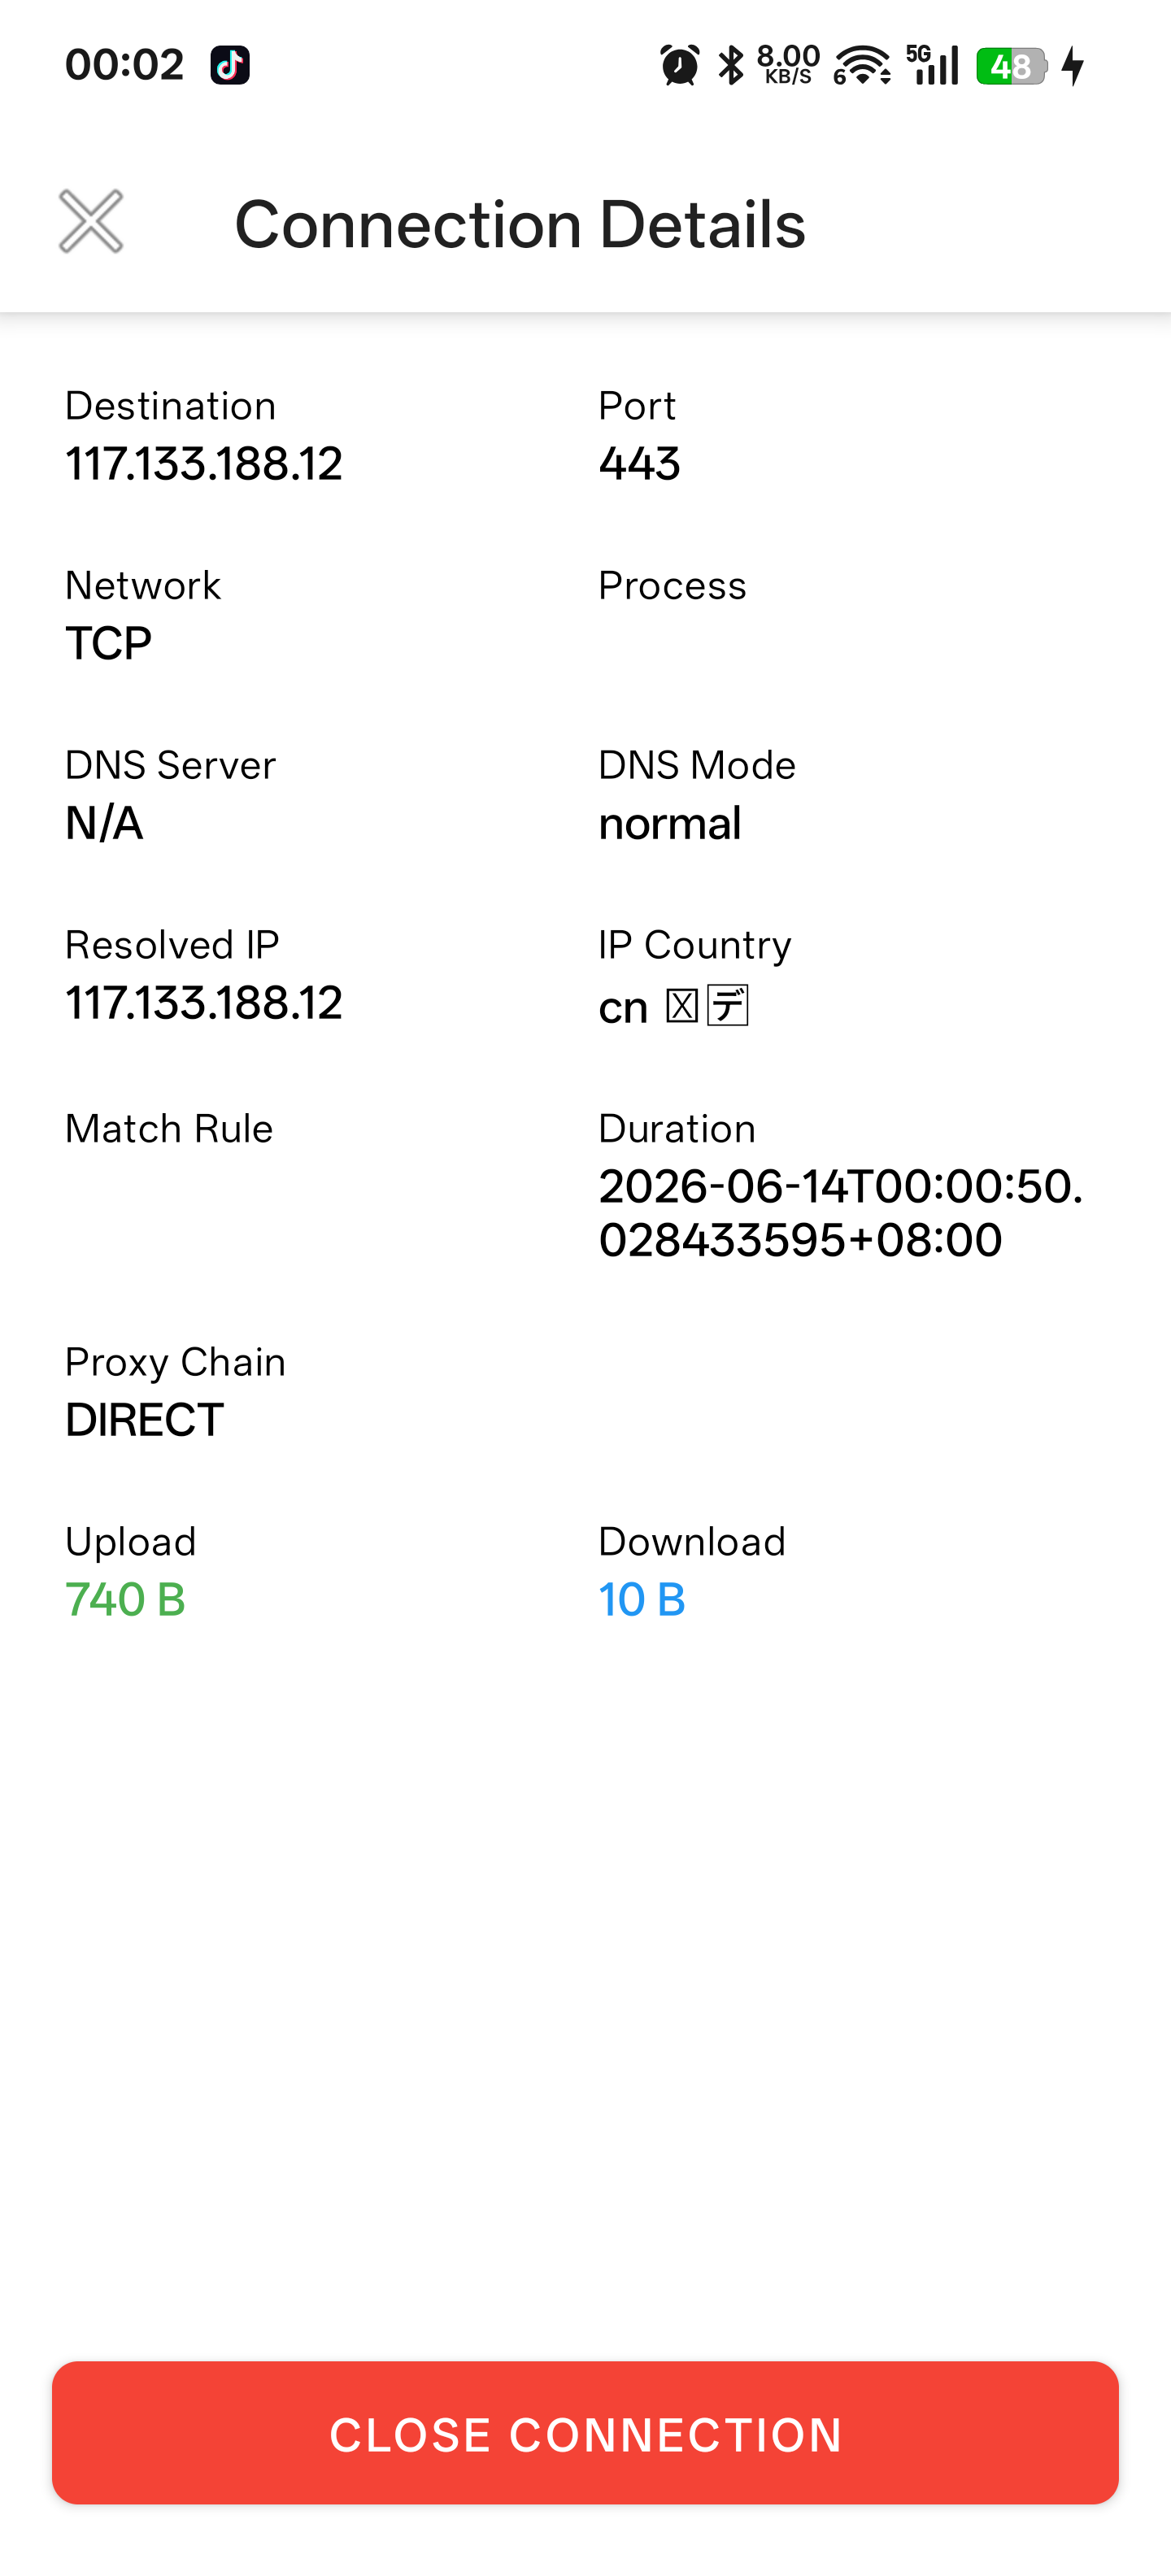
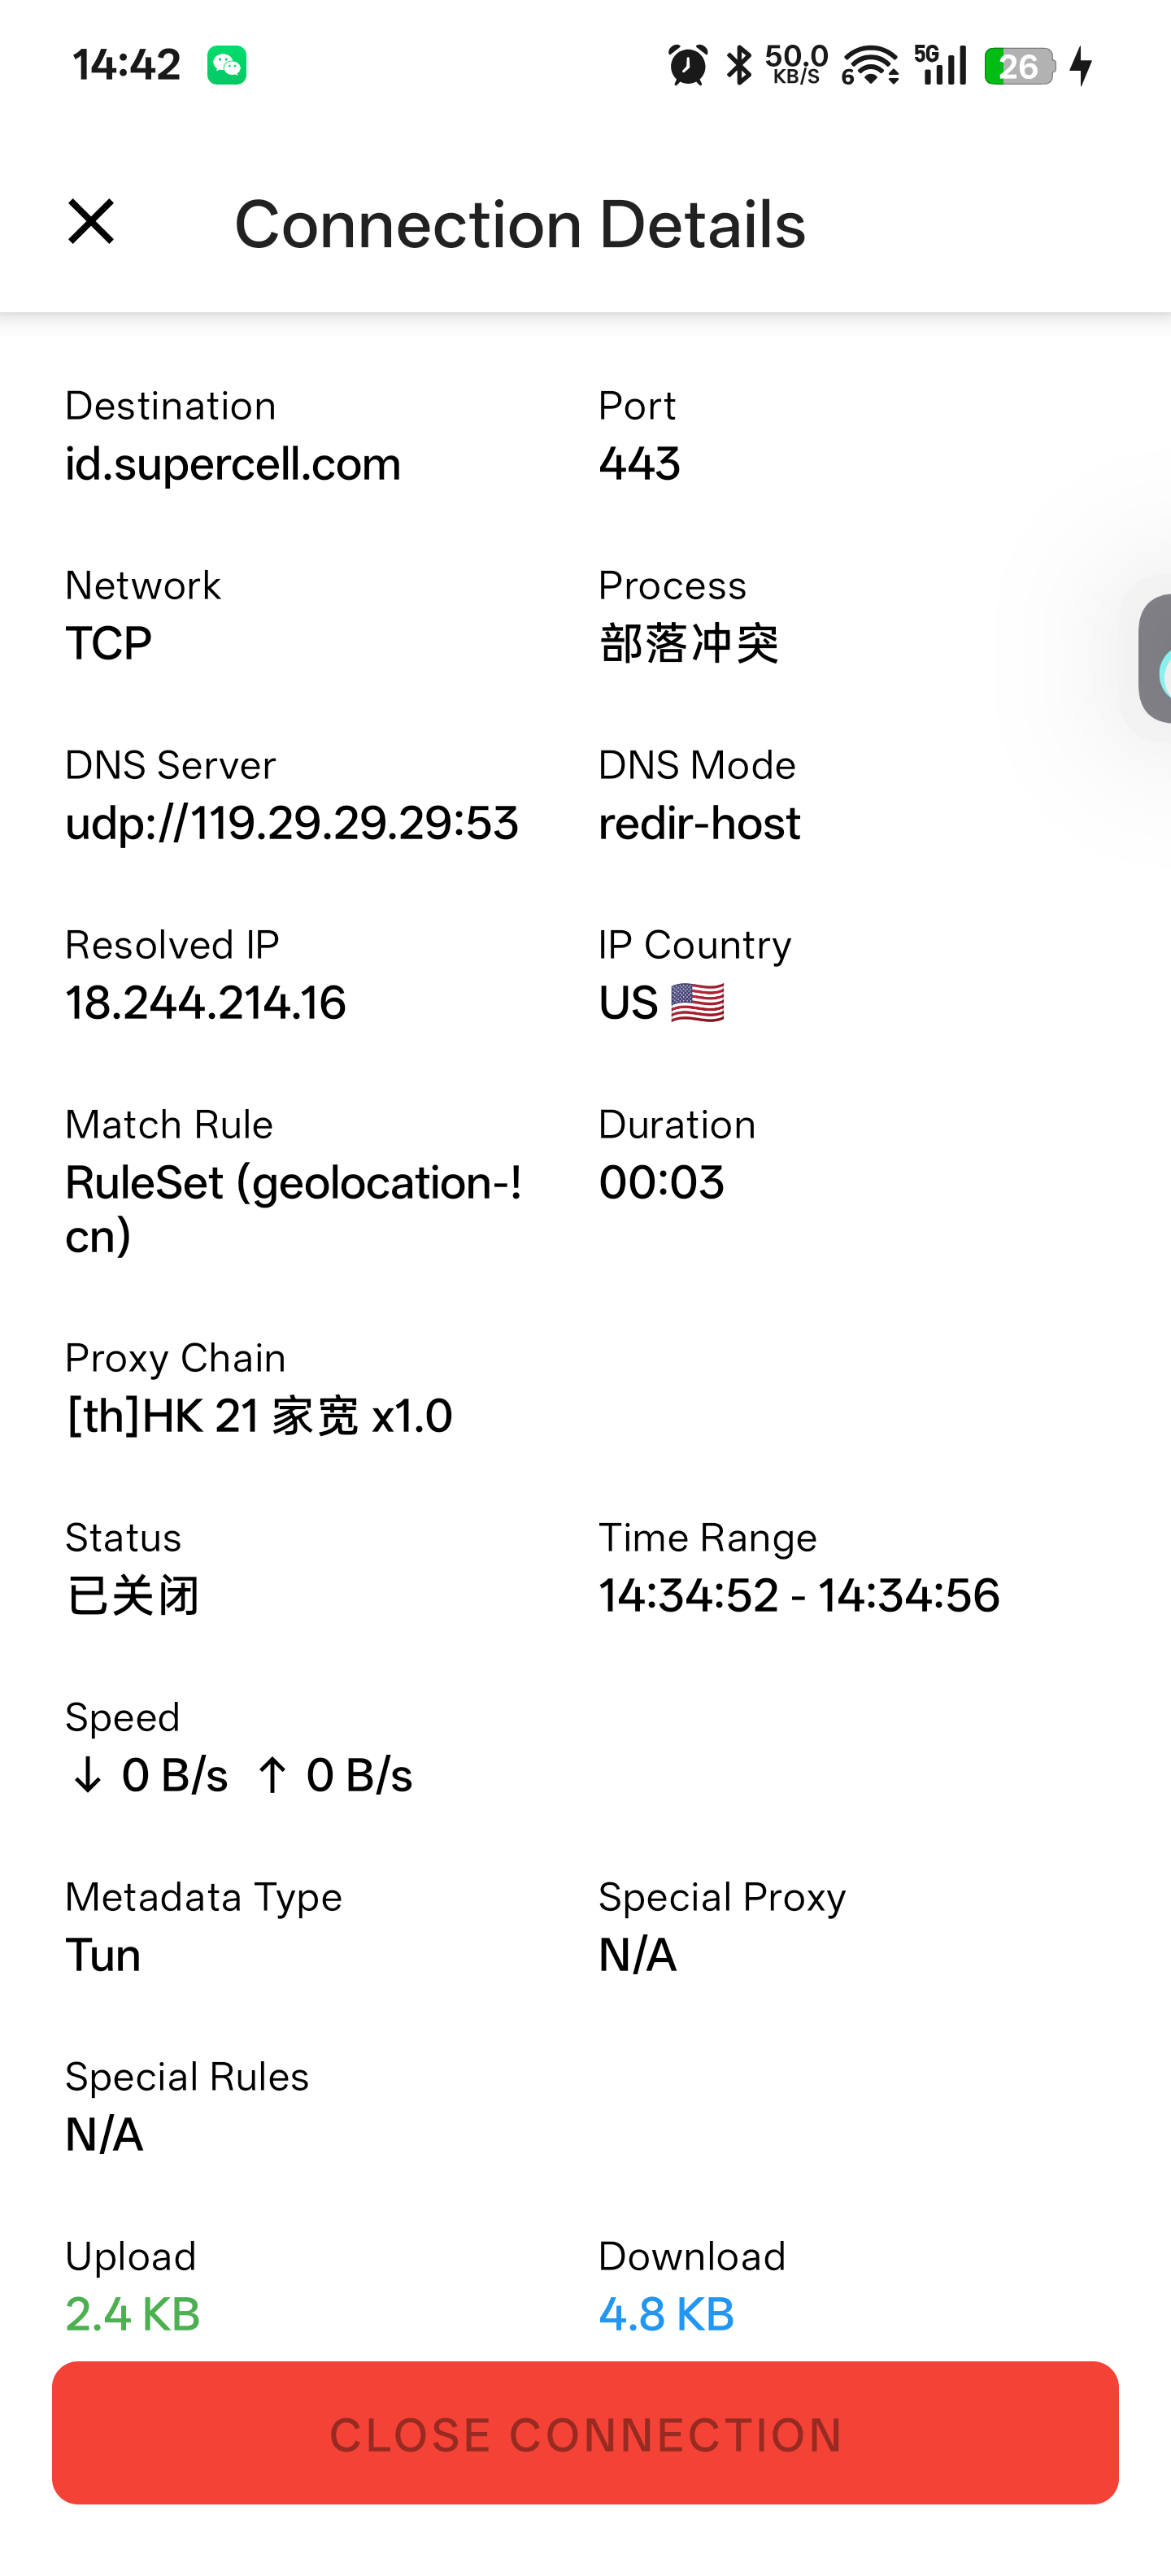
1

diff --git a/app/src/main/java/com/github/kr328/clash/ConnectionsActivity.kt b/app/src/main/java/com/github/kr328/clash/ConnectionsActivity.kt
@@ -247,6 +247,32 @@ class ConnectionsActivity : BaseActivity<ConnectionsDesign>() {
                 detailsConnectionId = conn.id
                 updateConnectionDetails(binding, conn.id)
 
+                val clipboard = getSystemService(android.content.Context.CLIPBOARD_SERVICE) as android.content.ClipboardManager
+                val setupCopy = { view: android.widget.TextView, label: String ->
+                    view.setOnLongClickListener {
+                        val textToCopy = view.text?.toString() ?: ""
+                        if (textToCopy.isNotBlank() && textToCopy != "N/A" && textToCopy != "Unknown") {
+                            val clip = android.content.ClipData.newPlainText(label, textToCopy)
+                            clipboard.setPrimaryClip(clip)
+                            android.widget.Toast.makeText(this@ConnectionsActivity, "已复制: $textToCopy", android.widget.Toast.LENGTH_SHORT).show()
+                        }
+                        true
+                    }
+                }
+                setupCopy(binding.tvDest, "Destination")
+                setupCopy(binding.tvPort, "Port")
+                setupCopy(binding.tvProcess, "Process")
+                setupCopy(binding.tvNetwork, "Network")
+                setupCopy(binding.tvRule, "Rule")
+                setupCopy(binding.tvChain, "Chain")
+                setupCopy(binding.tvIp, "IP")
+                setupCopy(binding.tvCountry, "Country")
+                setupCopy(binding.tvDns, "DNS")
+                setupCopy(binding.tvDnsMode, "DNS Mode")
+                setupCopy(binding.tvMetadataType, "Type")
+                setupCopy(binding.tvSpecialProxy, "Special Proxy")
+                setupCopy(binding.tvSpecialRules, "Special Rules")
+
                 binding.toolbar.setNavigationOnClickListener { dialog.dismiss() }
                 binding.btnCloseConnection.setOnClickListener {
                     [email redacted](Dispatchers.IO) {